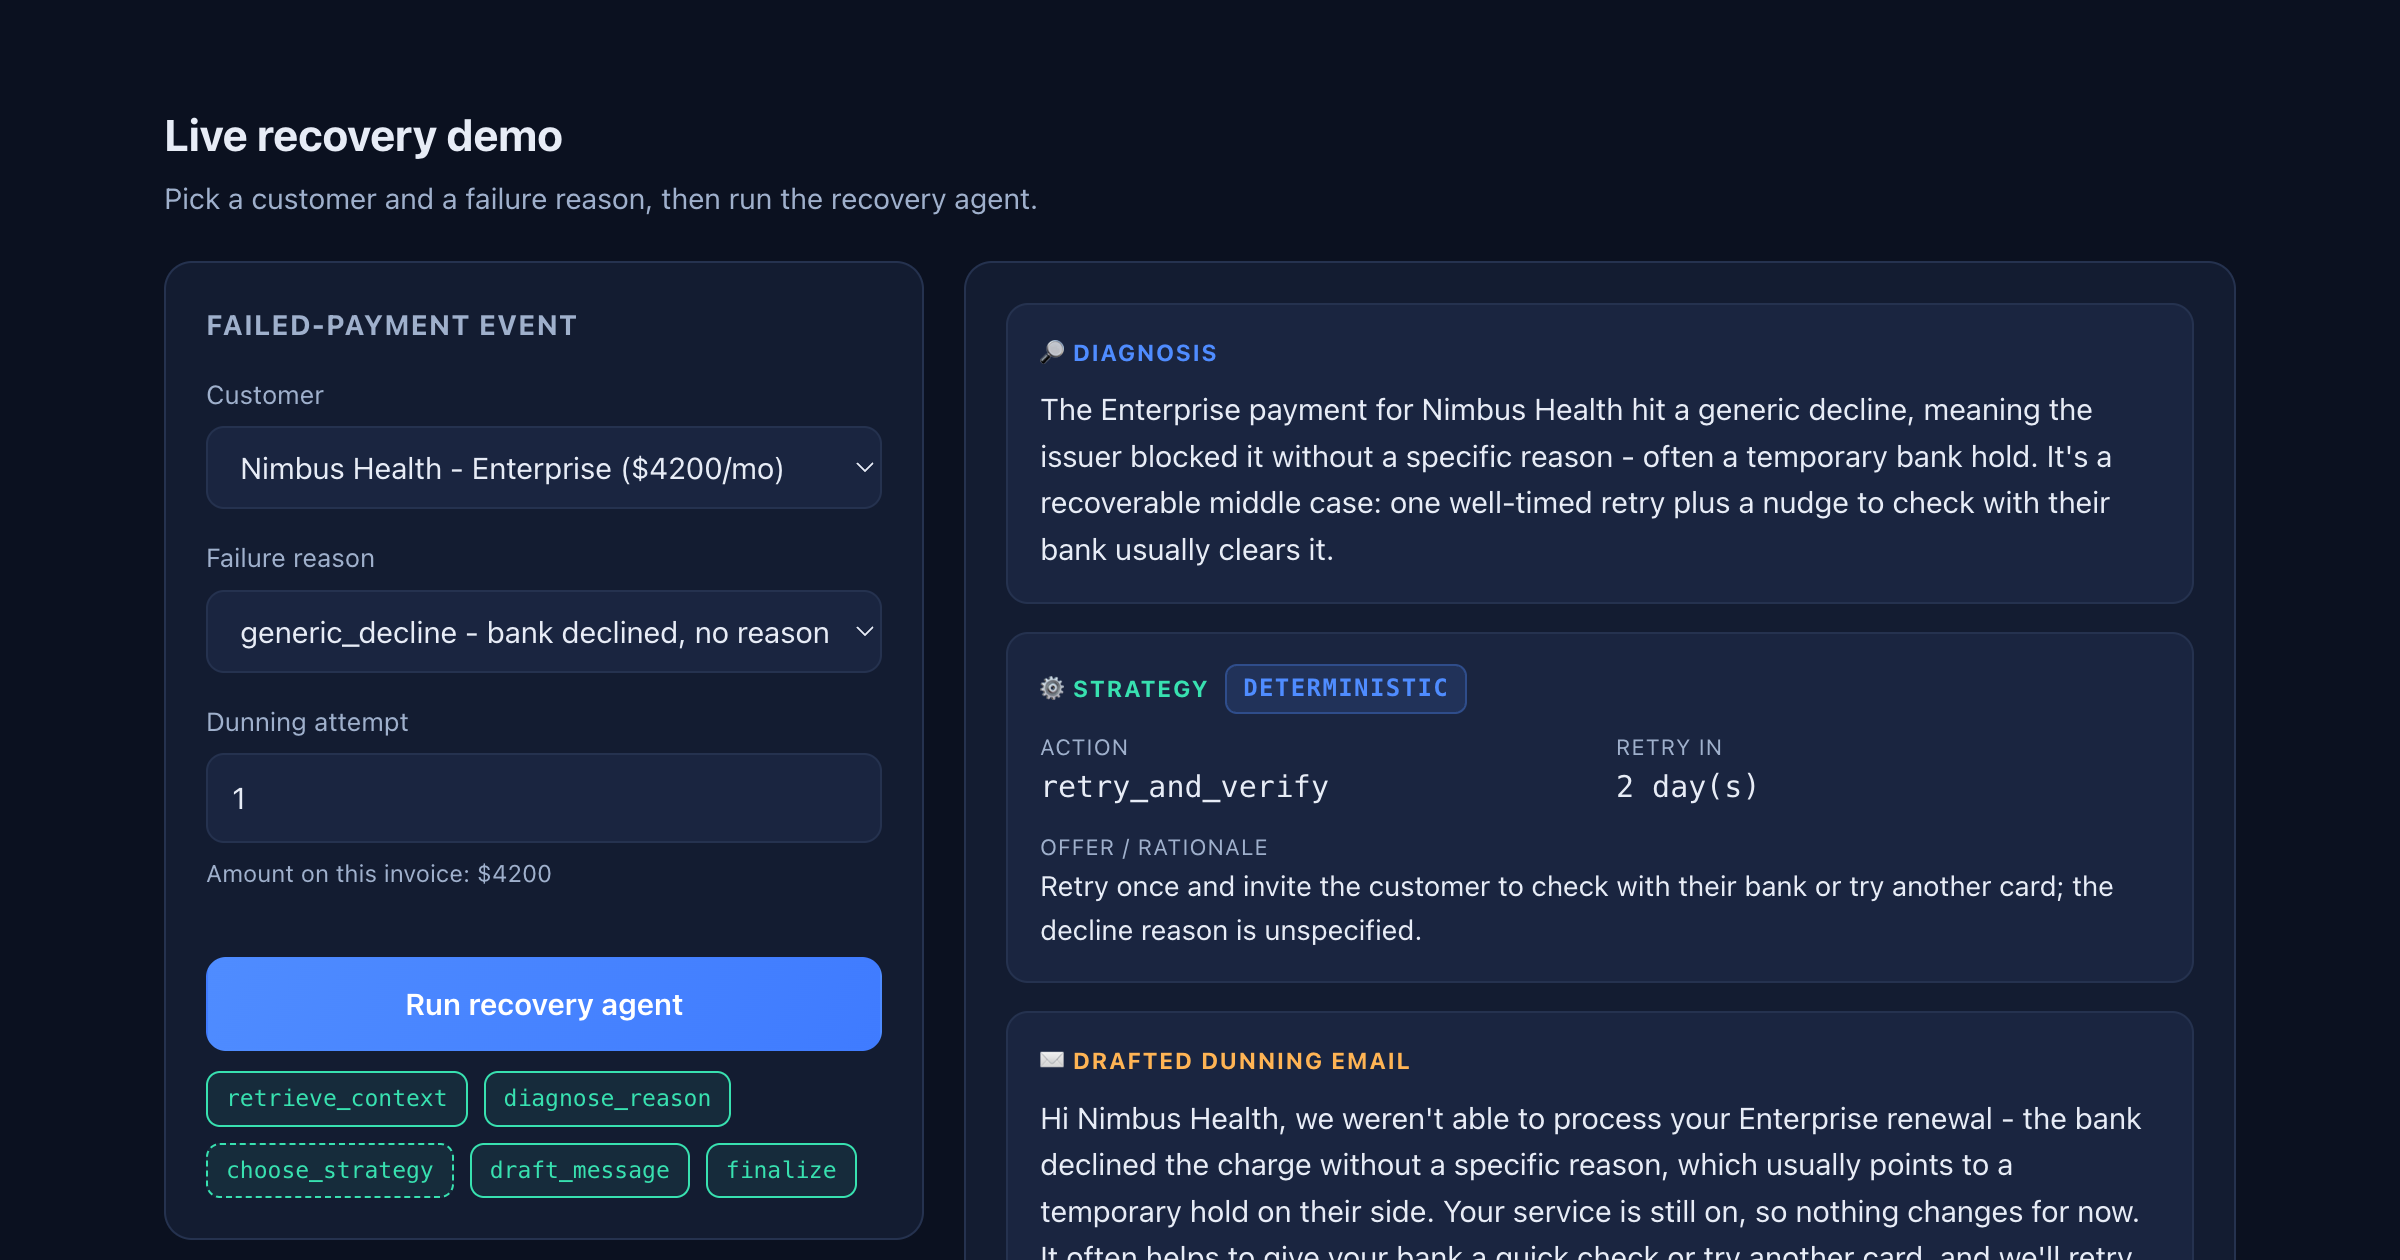
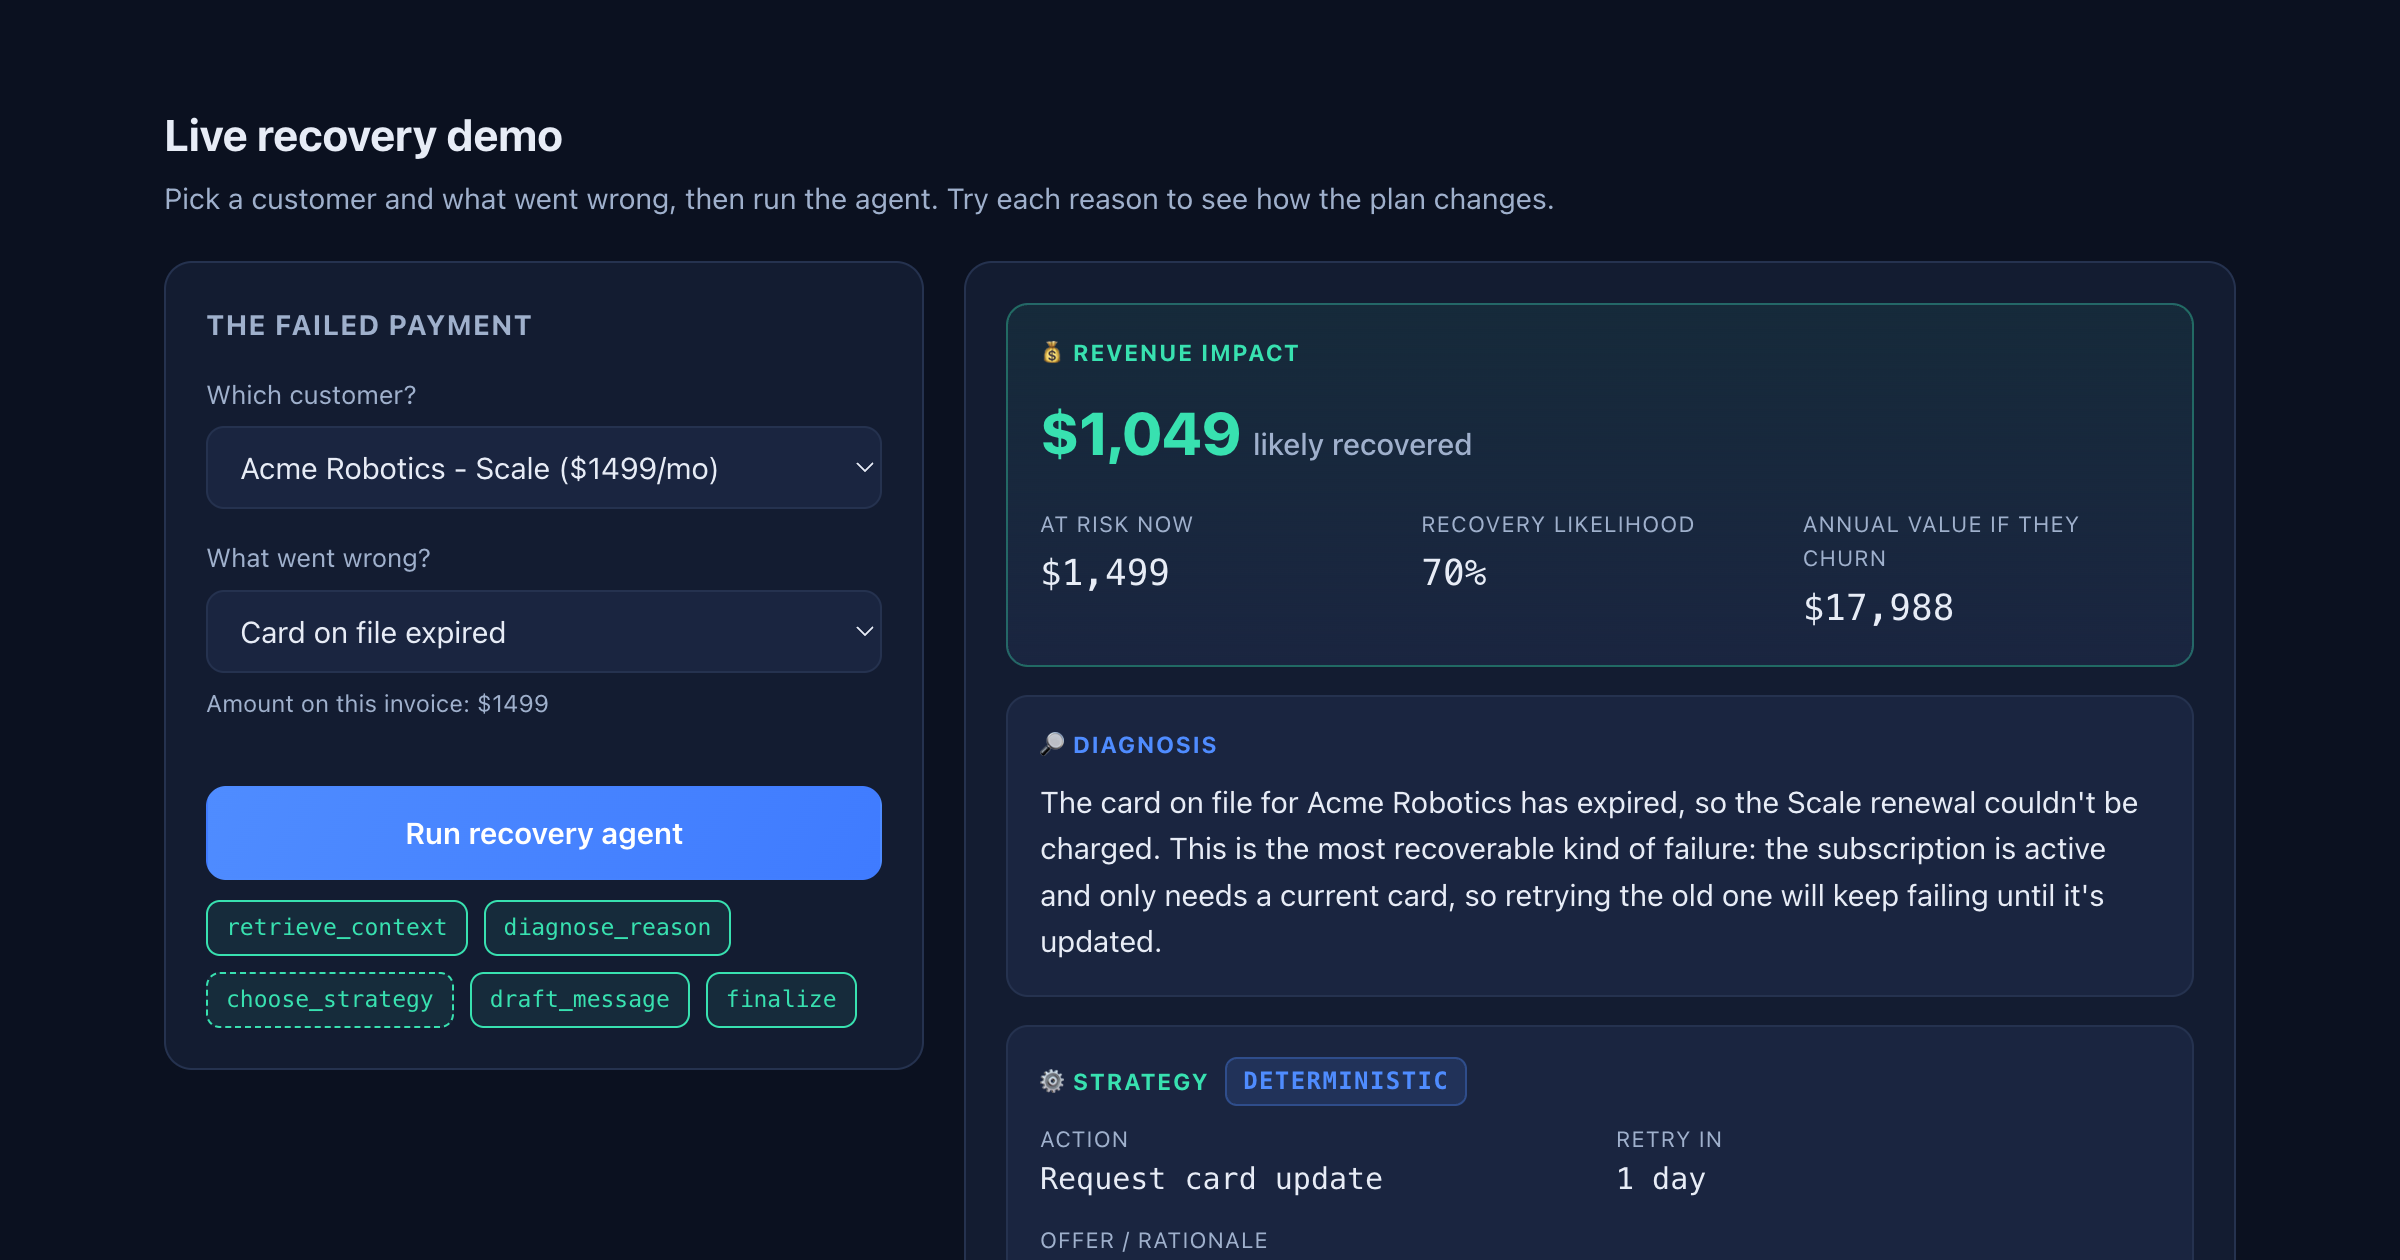
UX pass: simpler, friendlier demo
- Plain-English labels (Which customer? / What went wrong?) and options
- Drop the jargon Dunning attempt field (defaults to 1)
- Humanize the strategy action (request_card_update -> Request card update)
- Singular 1 day; friendlier demo hint; refresh README screenshot

diff --git a/app/static/index.html b/app/static/index.html
@@ -186,23 +186,21 @@
     <div class="demo-head">
       <div>
         <h2>Live recovery demo</h2>
-        <p class="sub">Pick a customer and a failure reason, then run the recovery agent.</p>
+        <p class="sub">Pick a customer and what went wrong, then run the agent. Try each reason to see how the plan changes.</p>
       </div>
     </div>
 
     <div class="grid">
       <div class="card">
-        <h3>Failed-payment event</h3>
-        <label for="customer">Customer</label>
+        <h3>The failed payment</h3>
+        <label for="customer">Which customer?</label>
         <select id="customer"></select>
-        <label for="failure">Failure reason</label>
+        <label for="failure">What went wrong?</label>
         <select id="failure">
-          <option value="card_expired">card_expired - card on file expired</option>
-          <option value="insufficient_funds">insufficient_funds - declined for funds</option>
-          <option value="generic_decline">generic_decline - bank declined, no reason</option>
+          <option value="card_expired">Card on file expired</option>
+          <option value="insufficient_funds">Declined - not enough funds</option>
+          <option value="generic_decline">Declined by the bank, no reason given</option>
         </select>
-        <label for="attempt">Dunning attempt</label>
-        <input id="attempt" type="number" min="1" value="1" />
         <p class="field-note" id="amountNote"></p>
         <button class="btn primary run" id="runBtn">Run recovery agent</button>
         <div class="flow" id="flow">
@@ -311,7 +309,7 @@ async function run() {
     amount: mrr,
     currency: "usd",
     failure_code: $("#failure").value,
-    attempt: parseInt($("#attempt").value || "1", 10),
+    attempt: 1,
   };
   btn.disabled = true;
   btn.innerHTML = '<span class="spinner"></span> Running...';
@@ -356,8 +354,8 @@ async function run() {
       <div class="block">
         <div class="k">⚙️ Strategy <span class="chip">deterministic</span></div>
         <div class="strategy-grid">
-          <div class="cell"><div class="lbl">Action</div><div class="val">${escapeHtml(s.action || "-")}</div></div>
-          <div class="cell"><div class="lbl">Retry in</div><div class="val">${s.retry_in_days ?? "-"} day(s)</div></div>
+          <div class="cell"><div class="lbl">Action</div><div class="val">${escapeHtml(humanize(s.action))}</div></div>
+          <div class="cell"><div class="lbl">Retry in</div><div class="val">${s.retry_in_days ?? "-"} day${s.retry_in_days === 1 ? "" : "s"}</div></div>
           <div class="cell wide"><div class="lbl">Offer / rationale</div><div class="val">${escapeHtml(s.offer || "-")}</div></div>
         </div>
       </div>
@@ -375,6 +373,10 @@ async function run() {
 }
 function escapeHtml(s) {
   return String(s).replace(/[&<>"]/g, c => ({ "&":"&amp;","<":"&lt;",">":"&gt;",'"':"&quot;" }[c]));
+}
+function humanize(s) {
+  if (!s) return "-";
+  return String(s).replace(/_/g, " ").replace(/^\w/, c => c.toUpperCase());
 }
 $("#runBtn").addEventListener("click", run);
 loadConfig();